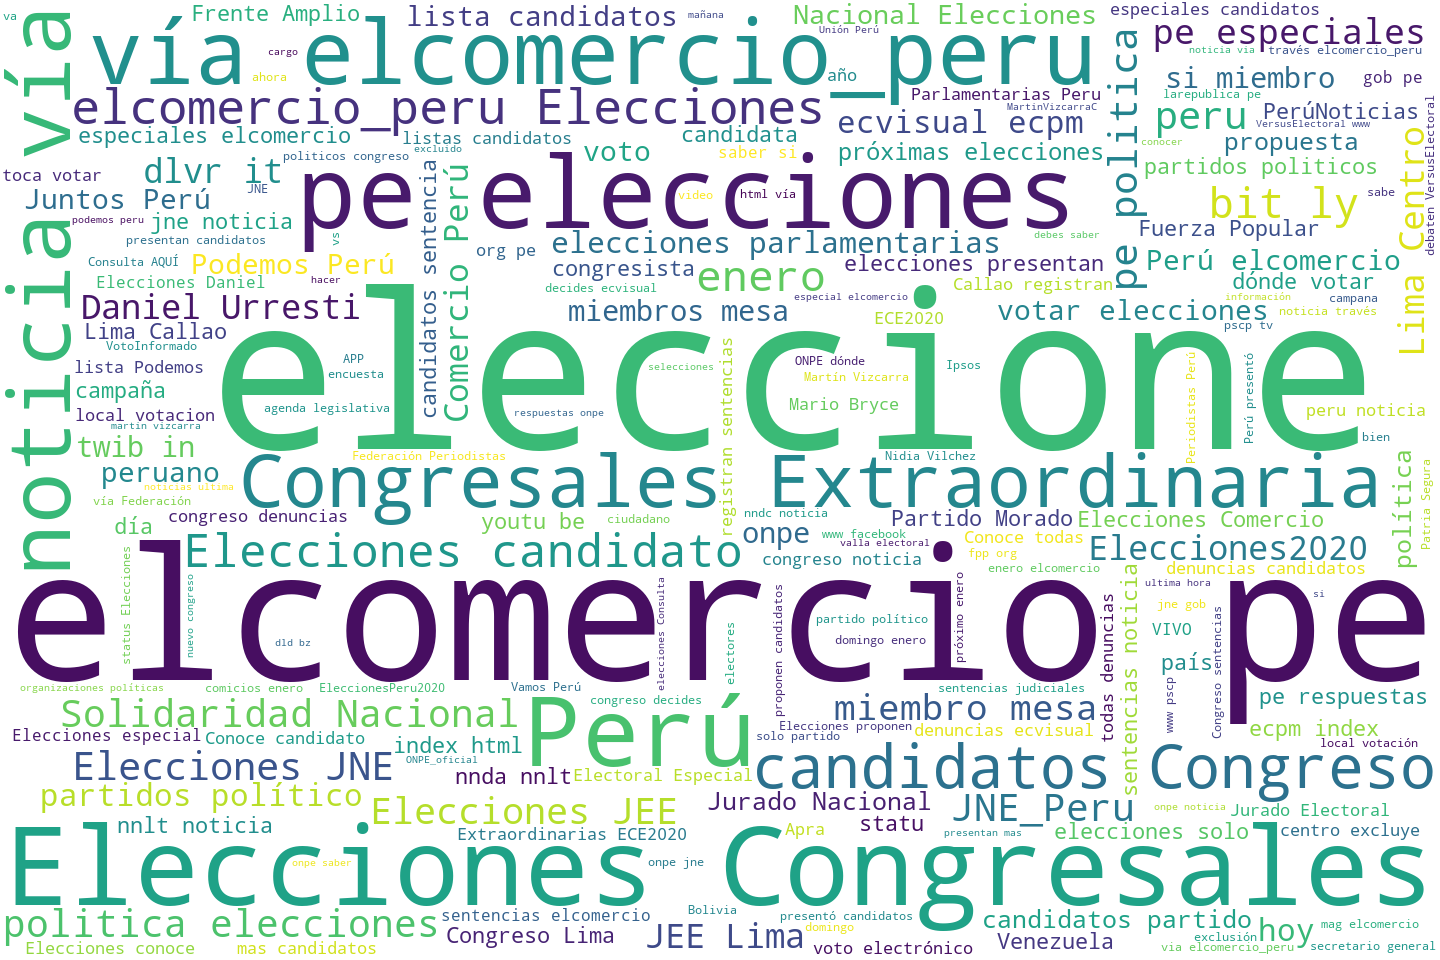
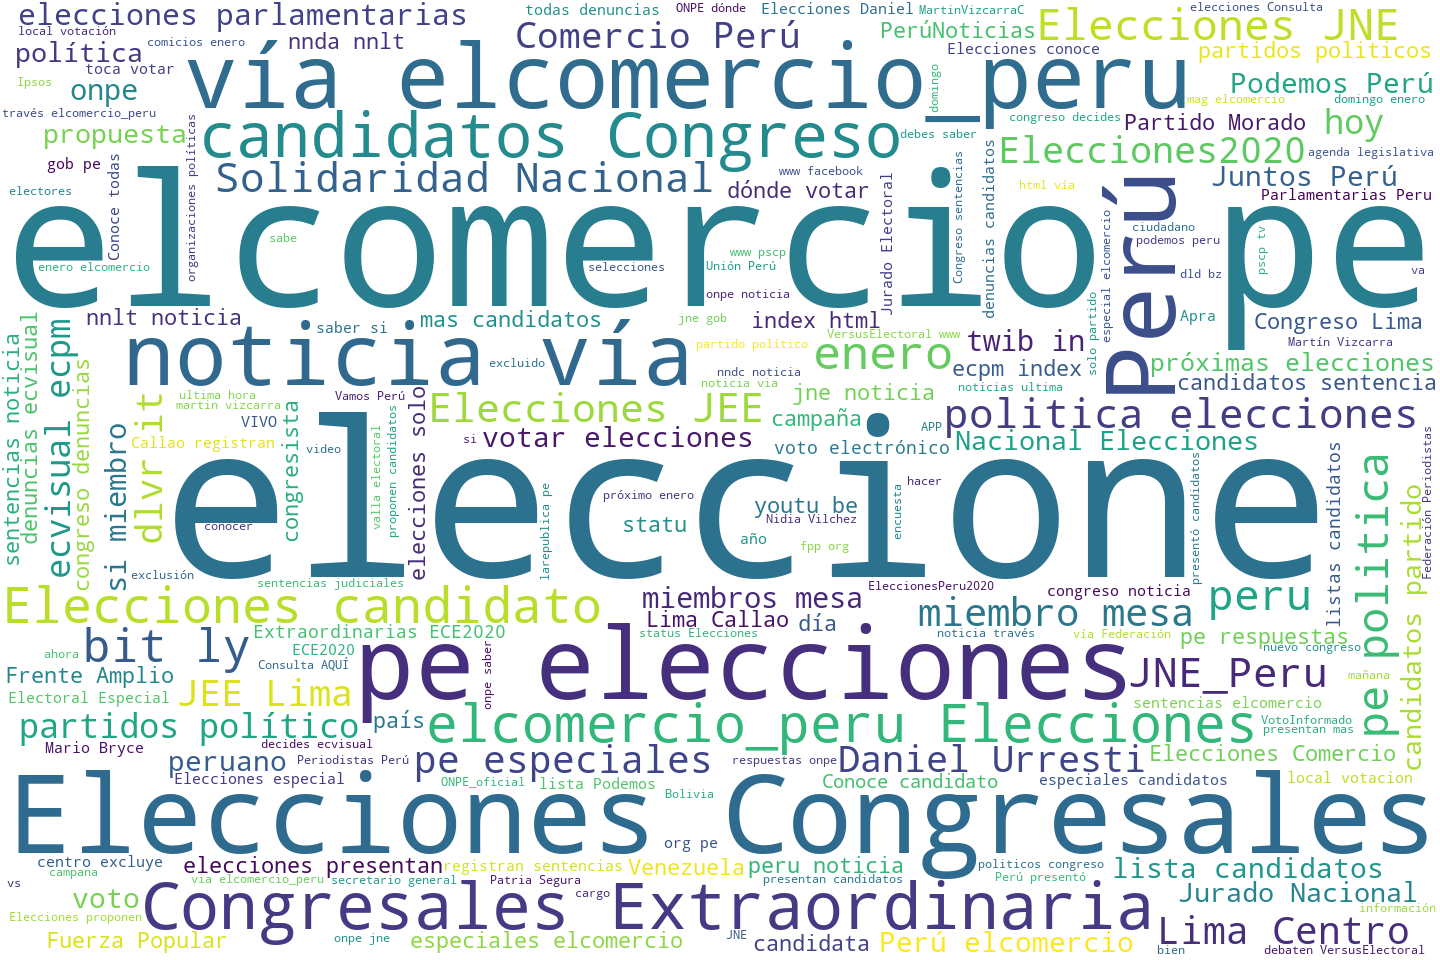
codebase update

diff --git a/worker.py b/worker.py
@@ -9,15 +9,24 @@ import extractor
 import counter
 import drawer
 
+import threading
 
-class StateWorker:
-    def __init__(self, workspace=".", search="Elecciones Peru 2020", since="2019-10-01"):
+import time
+
+
+class GovernmentWorker(threading.Thread):
+    def __init__(self, event, workspace=".", search="Elecciones2020", since="2019-10-01"):
+        threading.Thread.__init__(self)
+
+        self.stopped = event
         self.workspace = workspace
         self.pics_folder = join(self.workspace, "pics")
         self.dataframes_folder = join(self.workspace, "dataframes")
 
         self.search = search
         self.since = since
+
+        self.freqs = []
 
         pathlib.Path(self.pics_folder).mkdir(exist_ok=True)
         pathlib.Path(self.dataframes_folder).mkdir(exist_ok=True)
@@ -33,7 +42,7 @@ class StateWorker:
         else:
             self.save_new_snapshot()
 
-        self.freqs = []
+        self.perform_generators()
 
     def save_new_snapshot(self):
         c = twint.Config()
@@ -59,5 +68,10 @@ class StateWorker:
 
         self.freqs = counter.freq_str(text, minimal_counts=2)
 
-        drawer.draw_word_cloud(text, with_download=True,
-                               filename=draw_filename)
+        drawer.draw_word_cloud(text, filename=draw_filename)
+
+    def run(self):
+        while not self.stopped.wait(10*60):
+            print("executing snapshot")
+            self.save_new_snapshot()
+            self.perform_generators()

diff --git a/app.py b/app.py
@@ -1,0 +1,20 @@
+from flask import Flask, escape, request, jsonify
+import worker
+import threading
+
+app = Flask(__name__)
+
+
+stopFlag = threading.Event()
+sw = worker.GovernmentWorker(stopFlag)
+
+
+@app.route('/freqs')
+def freqs():
+    result = {"data": [{"text": freq[1], "value": freq[0]}
+                       for freq in sw.freqs]}
+    return jsonify(result)
+
+
+sw.start()
+app.run(host="0.0.0.0", port=8080)

diff --git a/analyzer.py b/analyzer.py
@@ -1,7 +1,7 @@
 import extractor
 import counter
 import drawer
-import versions
+import worker
 
 text = extractor.extract_tweets_from_csv("file.csv")
 
@@ -9,6 +9,6 @@ freqs = counter.freq_str(text, minimal_counts=2)
 
 drawer.draw_word_cloud(text)
 
-sw = versions.StateWorker()
-sw.save_new_snapshot()
-sw.perform_generators()
+# sw = versions.GovernmentWorker()
+# sw.save_new_snapshot()
+# sw.perform_generators()

diff --git a/counter.py b/counter.py
@@ -23,6 +23,6 @@ def freq_str(text: str, minimal_counts=1) -> list:
 
     freqs = [f for f in freqs if f[0] >= minimal_counts]
 
-    freqs.sort(key=lambda f: f[0])
+    freqs.sort(key=lambda f: f[0], reverse=True)
 
     return freqs
